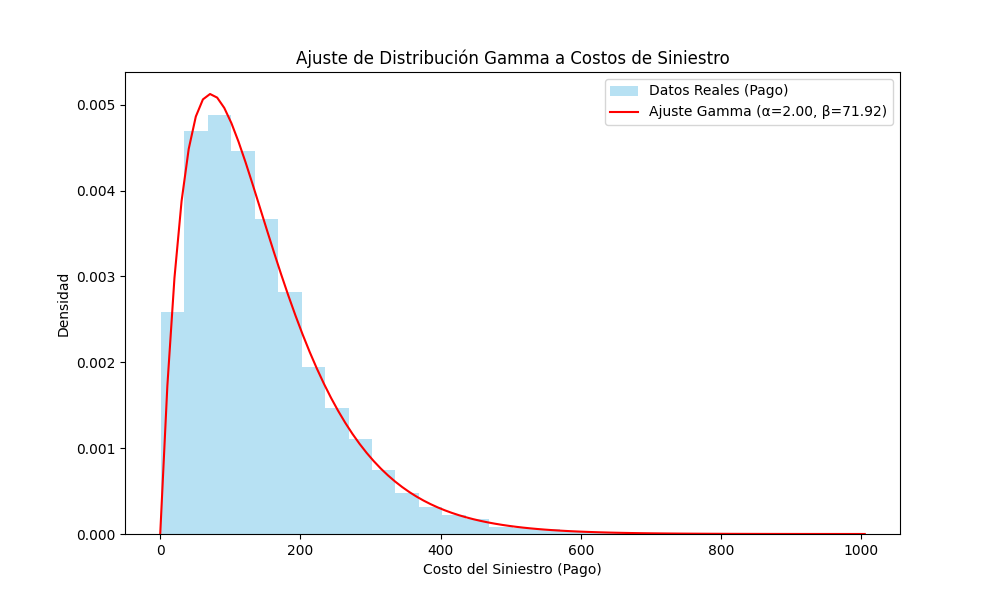
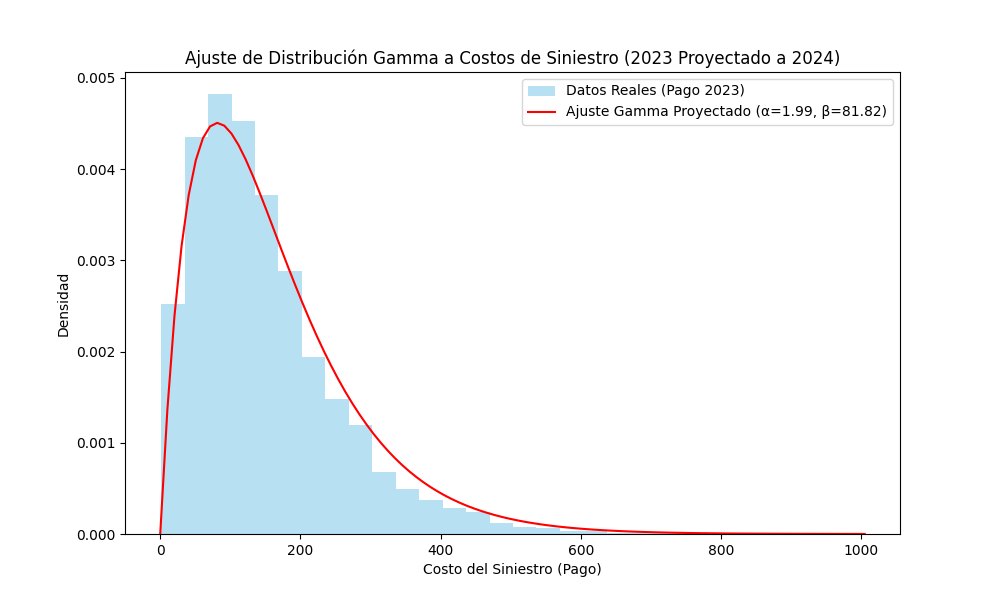
deducible

diff --git a/Reto1.py b/Reto1.py
@@ -1,9 +1,10 @@
 import pandas as pd
 import numpy as np
 import matplotlib.pyplot as plt
-from scipy.stats import gamma
+from scipy.stats import gamma, poisson
+from scipy.optimize import minimize
 
-# 1. Cargar los datos (asegúrate de que el delimitador sea correcto)
+# 1. Cargar los datos
 try:
     siniestros = pd.read_csv("siniestros.csv", delimiter=';')
 except FileNotFoundError:
@@ -23,42 +24,98 @@ def neg_log_likelihood(params, data):
 # 3. Valores iniciales para alpha y beta
 initial_guess = [1, 1]
 
-# 4. Optimizar el log-likelihood usando la columna 'Pago' (sin ajustar)
-from scipy.optimize import minimize
-result = minimize(neg_log_likelihood, initial_guess,
-                    args=(siniestros['Pago'],),  # Usa la columna 'Pago' original
+# 4. Ajustar la distribución Gamma a los datos de 2023
+siniestros_2023 = siniestros[siniestros['Anio'] == 2023]['Pago']
+
+result_2023 = minimize(neg_log_likelihood, initial_guess,
+                    args=(siniestros_2023,),
                     method='L-BFGS-B',
                     bounds=[(0.001, None), (0.001, None)])
 
-# 5. Imprimir los resultados
-if result.success:
-    alpha_opt, beta_opt = result.x
-    print(f"Parámetros Gamma optimizados (columna 'Pago' sin ajustar):\n  alpha = {alpha_opt:.4f}\n  beta = {beta_opt:.4f}")
+if result_2023.success:
+    alpha_opt_2023, beta_opt_2023 = result_2023.x
+    print(f"Parámetros Gamma optimizados (2023):\n  alpha = {alpha_opt_2023:.4f}\n  beta = {beta_opt_2023:.4f}")
 else:
-    print("La optimización no convergió.")
-    print(result.message)
+    print("La optimización para 2023 no convergió.")
+    print(result_2023.message)
     exit()
 
-# 6. Crear el gráfico
+# 5. Ajustar beta por la inflación esperada para 2024
+inflacion_2024 = 1.10  # 10% de inflación para 2024
+beta_opt_2024 = beta_opt_2023 * inflacion_2024
+
+print(f"\nBeta ajustado por inflación para 2024: {beta_opt_2024:.4f}")
+
+# 6. Parámetros de la simulación
+num_asegurados = 6700  # Número de asegurados
+num_simulaciones = 1000  # Número de simulaciones de Monte Carlo
+lambda_poisson = 0.7  # Tasa promedio de siniestros por persona
+
+# 7. Función para simular la pérdida total para un asegurado (con deducible)
+def simular_perdida_asegurado(alpha, beta, lambda_poisson, deducible):
+    """Simula la pérdida total para un asegurado en un año, teniendo en cuenta un deducible."""
+    num_siniestros = poisson.rvs(mu=lambda_poisson)  # Simula el número de siniestros
+    perdida_total = 0
+    for _ in range(num_siniestros):
+        costo_siniestro = gamma.rvs(a=alpha, scale=beta)  # Simula el costo del siniestro
+        if costo_siniestro > deducible:
+            perdida_total += costo_siniestro - deducible  # Aplica el deducible
+    return perdida_total
+
+# 8. Función para encontrar el deducible que reduce la frecuencia en un 12%
+def encontrar_deducible(alpha, beta, lambda_poisson, objetivo_reduccion=0.12):
+    """Encuentra el deducible que reduce la frecuencia de siniestros en el porcentaje objetivo."""
+    def frecuencia_reducida(deducible):
+        num_simulaciones_deducible = 1000  # Número de simulaciones para estimar la frecuencia
+        siniestros_con_deducible = 0
+        for _ in range(num_simulaciones_deducible):
+            #simulamos si el asegurado tiene algun siniestro
+            perdida = simular_perdida_asegurado(alpha, beta, lambda_poisson, deducible)
+            if perdida> 0:
+                siniestros_con_deducible += 1
+        frecuencia_con_deducible = siniestros_con_deducible / num_simulaciones_deducible
+        reduccion = 1 - frecuencia_con_deducible
+        return abs(reduccion - objetivo_reduccion)
+
+    # Usar el promedio de 'Pago' como un valor inicial razonable para el deducible
+    initial_deducible_guess = siniestros['Pago'].mean() / 2
+    result = minimize(frecuencia_reducida, x0=initial_deducible_guess, bounds=[(0, siniestros['Pago'].max())])
+
+    if result.success:
+        deducible_optimo = result.x[0]
+        print(f"\nDeducible optimo: {deducible_optimo:.4f}")
+        return deducible_optimo
+    else:
+        print("\nNo se pudo encontrar el deducible optimo.")
+        return None
+
+# 9. Encontrar el deducible optimo
+deducible_optimo = encontrar_deducible(alpha_opt_2023, beta_opt_2024, lambda_poisson)
+
+# 10. Simulación de Monte Carlo (con deducible)
+perdidas_agregadas = []
+for i in range(num_simulaciones):
+    perdida_simulacion = sum(simular_perdida_asegurado(alpha_opt_2023, beta_opt_2024, lambda_poisson, deducible_optimo) for _ in range(num_asegurados))
+    perdidas_agregadas.append(perdida_simulacion)
+    #Imprimir progreso
+    if (i + 1) % 100 == 0:
+      print(f"Simulación {i + 1}/{num_simulaciones} completada")
+
+# 11. Análisis de los resultados
+perdidas_agregadas = np.array(perdidas_agregadas)
+percentil_50 = np.percentile(perdidas_agregadas, 50)
+percentil_99_5 = np.percentile(perdidas_agregadas, 99.5)
+
+print(f"\nPercentil 50 de la pérdida agregada (con deducible): {percentil_50:.2f}")
+print(f"\nPercentil 99.5 de la pérdida agregada (con deducible): {percentil_99_5:.2f}")
+
+# 12. Graficar la distribución de pérdidas agregadas (opcional)
 plt.figure(figsize=(10, 6))
-
-# a. Histograma de los datos reales
-plt.hist(siniestros['Pago'], bins=30, density=True, alpha=0.6, color='skyblue', label='Datos Reales (Pago)')
-
-# b. Generar valores x para la distribución Gamma
-x = np.linspace(0, siniestros['Pago'].max(), 100)
-
-# c. Calcular la función de densidad de probabilidad (PDF) de la Gamma
-pdf = gamma.pdf(x, a=alpha_opt, scale=beta_opt)
-
-# d. Graficar la PDF de la Gamma
-plt.plot(x, pdf, 'r-', label=f'Ajuste Gamma (α={alpha_opt:.2f}, β={beta_opt:.2f})')
-
-# e. Añadir etiquetas y título
-plt.xlabel('Costo del Siniestro (Pago)')
-plt.ylabel('Densidad')
-plt.title('Ajuste de Distribución Gamma a Costos de Siniestro')
+plt.hist(perdidas_agregadas, bins=30, color='skyblue')
+plt.xlabel('Pérdida Agregada')
+plt.ylabel('Frecuencia')
+plt.title('Distribución de Pérdidas Agregadas Simuladas (con Deducible)')
+plt.axvline(percentil_50, color='red', linestyle='dashed', linewidth=1, label=f'Percentil 50: {percentil_50:.2f}')
+plt.axvline(percentil_99_5, color='green', linestyle='dashed', linewidth=1, label=f'Percentil 99.5: {percentil_99_5:.2f}')
 plt.legend()
-
-# f. Mostrar el gráfico
 plt.show()
